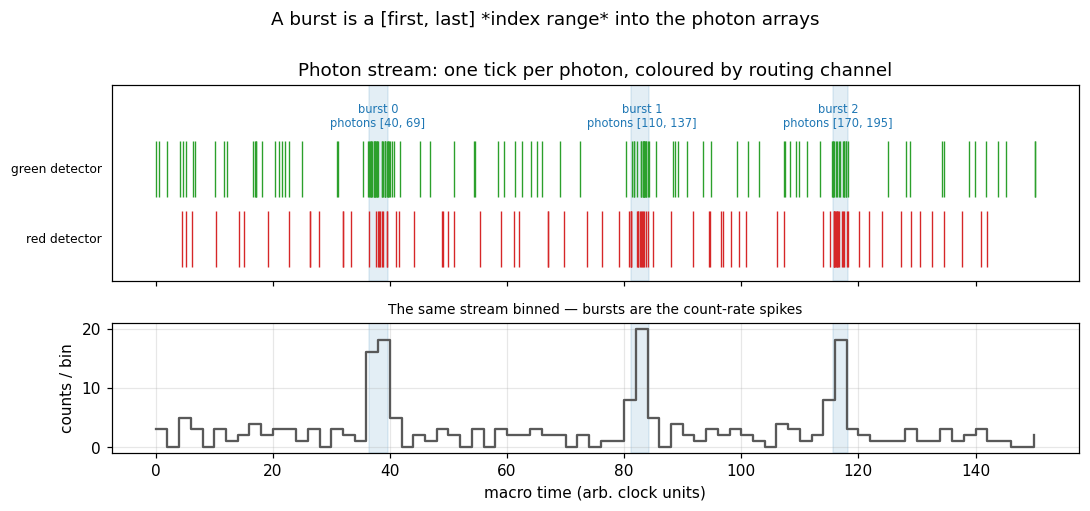
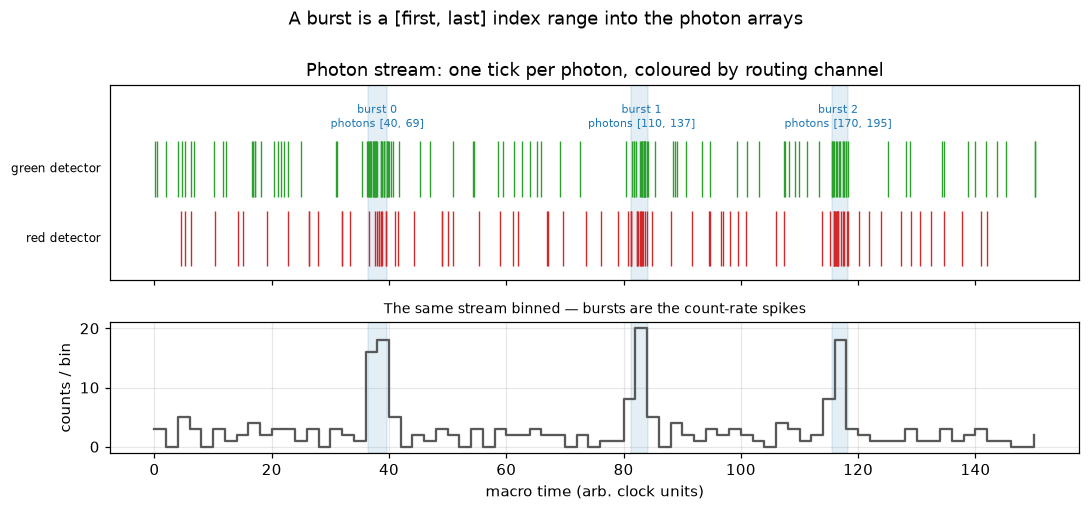
Docs review: guides 32-38 checked against the code
32: Decays tab (plot Per-state decay), ALEX Creator link, result caption.
33: tttrlib burst-feature engines named correctly; off-topic window-size
paragraph dropped; timestamps figure title no longer shows literal asterisks.
34: CSV snippet defines its table; FRET efficiency column listed.
35: Run writes into the search bi4_bur folder (or .pto); captions.
36: stale known-defect admonition removed (the table now carries
per-detector columns); simulated figure called simulated.
37: real LUT-tool controls (Preview channel, Add all channels to setup,
Apply to detector setup, Low-count threshold), reached via File > Setup >
Settings; csc lut-tools with --channel.
38: real control names (Browse..., van Steensel CCF tab, Min size (px),
Smoothing, Paint ROI/Paint gate, Gate regions); captions name the real test
image; retired Qt-host section and its obsolete screenshot removed.

diff --git a/docs/guides/make_figures.py b/docs/guides/make_figures.py
@@ -1218,7 +1218,7 @@ def fig_timestamps():
         a2.axvspan(macro[s], macro[e], color="#1f77b4", alpha=0.12, zorder=0)
     a2.set_xlabel("macro time (arb. clock units)"); a2.set_ylabel("counts / bin")
     a2.set_title("The same stream binned — bursts are the count-rate spikes", fontsize=9)
-    fig.suptitle("A burst is a [first, last] *index range* into the photon arrays", y=1.0)
+    fig.suptitle("A burst is a [first, last] index range into the photon arrays", y=1.0)
     save(fig, "timestamps_bursts.png")
 
 

diff --git a/docs/guides/38_colocalization.md b/docs/guides/38_colocalization.md
@@ -41,7 +41,7 @@ file (`ch0`, `ch1`, …).
 
 ### 2. Load an image
 
-Type a path into **Image** and press Enter, press **Browse** for the disk, or **Database** to load a dataset registered
+Type a path into **Image** and press Enter, press **Browse…** for the disk, or **Database** to load a dataset registered
 in the database (the database resolves it to a local file, wherever its object
 store keeps the data — local disk or an S3-compatible endpoint), and a file
 dropped on the window works too. Choosing a file loads and runs it. Photon streams are
@@ -80,13 +80,15 @@ pixels above both thresholds.
 :name: fig-coloc-workspace
 :width: 100%
 
-The colocalization tool on a simulated two-channel image (two Gaussian structures,
-the second one partly shifted): the settings and the channel pair on the left, the coefficients on the right.
+The colocalization tool on the two-detector confocal test image
+(`test/data/clsm/PQ_Olympus_MFIS.ht3`, green vs red, auto background): the
+settings and the channel pair on the left, the coefficients on the right.
 ```
 
 ### 6. Check registration, then significance
 
-Set **van Steensel shift (px)** to a dozen pixels and look at the CCF tab: the
+Set **van Steensel shift (px)** to a dozen pixels and look at the **van Steensel
+CCF** tab: the
 profile must peak at 0. A peak elsewhere is a registration offset — fix it before
 believing any coefficient.
 
@@ -109,8 +111,8 @@ leaves the horizontal profile peaking at zero.
 
 ### 8. Restrict to a region (optional)
 
-Open the **Region of interest** panel, set a **Brush (px)** size, and paint on the
-*Channel A* map. Everything — background, Costes thresholds, the null model, the
+Open the **Region of interest** panel, tick **Paint ROI**, set a **Brush (px)**
+size, and paint on the *Channel A* map (**Erase** paints the region away). Everything — background, Costes thresholds, the null model, the
 profiles and the coefficients — is then computed inside that region only, and the
 table reports its area fraction. **🧽 Clear ROI** goes back to the whole image.
 
@@ -124,7 +126,7 @@ how many objects each channel has, what fraction has a partner within the
 lands inside an object of the other channel, and the median nearest-neighbour
 distance — all reported in both directions.
 
-**Min size** drops noise-sized detections, **Smoothing** helps when shot noise
+**Min size (px)** drops noise-sized detections, **Smoothing (σ px)** helps when shot noise
 fragments a spot, and **Split touching objects** separates puncta that merge
 (over-segments irregular shapes, so leave it off for those).
 
@@ -137,15 +139,15 @@ and independent puncta looks like.
 :name: fig-coloc-objects
 :width: 65%
 
-Segmented objects of the simulated image: 1 = channel A only, 2 = channel B only,
-3 = both. Coincidence is read straight off the map.
+Segmented objects of a simulated punctate image (**Load example**): 1 = channel A
+only, 2 = channel B only, 3 = both. Coincidence is read straight off the map.
 ```
 
 ```{figure} figures/coloc_object_distances.png
 :name: fig-coloc-object-distances
 :width: 75%
 
-Nearest-neighbour distances in both directions for the simulated image.
+Nearest-neighbour distances in both directions for the simulated punctate image.
 ```
 
 ### 10. Gate a population in the scatter
@@ -159,9 +161,10 @@ table, while the *Colocalized pixels* map highlights them.
 :name: fig-coloc-scatter
 :width: 70%
 
-Joint intensity histogram of the simulated channels. A gate box is typed under *Scatter gate*,
-or added with **Add rectangle** in the *Analysis regions* list and dragged by its handles; the gated
-pixel population gets its own coefficients.
+Joint intensity histogram of the confocal test image (green vs red). A gate box
+is typed under *Scatter gate*, or added with **Add rectangle** in the *Gate regions*
+list and dragged by its handles; the gated pixel population gets its own
+coefficients.
 ```
 
 Type the bounds into the **Scatter gate** panel for an exactly reproducible gate,
@@ -170,7 +173,8 @@ or press **🧹 Clear gate** to go back to all thresholded pixels.
 A population is rarely a rectangle, though — a real one is a band along the
 diagonal, or a cloud off it. **Paint it instead**: brush directly on the
 histogram and the painted bins become the gate, exactly as drawn. Painting takes
-precedence over the rectangle while it lasts, and **🧹 Clear gate** resets both.
+precedence over the rectangle while it lasts (tick **Paint gate** under *Scatter
+gate*), and **🧹 Clear gate** resets both.
 Under the hood the paint is the same kind of region as a mask drawn on an image
 — only its axes are intensities rather than pixels
 ({ref}`concept-region-properties`) — so it can be combined with another region
@@ -236,14 +240,3 @@ what a defensible report contains.
 ## See also
 
 - Tool: **Colocalization** (`chisurf/plugins/microscopy/img_coloc/`).
-
-## Native window and image orientation
-
-The native tool declares an initial 1100×720 window, limited by the display and
-overridden by saved dimensions. Hover the Background, Scatter gate, Region,
-Objects and Significance folds for their method explanations. The intensity
-scatter shows the computed histogram with increasing channel intensities on
-its axes; flipped texture coordinates now render correctly in the Qt host
-without changing coefficients or histogram counts.
-
-![Computed colocalization intensity histogram](figures/w6g_coloc_scatter.png)

diff --git a/docs/guides/37_tttr_microtime_lut.md b/docs/guides/37_tttr_microtime_lut.md
@@ -32,22 +32,24 @@ and micro-time shift. **Assign LUT…** assigns a LUT file to the selected row;
 **Configure LUTs…** opens the LUT tools window of the editor (compute from the
 read calibration decay with a linear region or automatically, assign, export, remove
 for one channel); **Adjust shifts…** aligns the channels on the decay. The standalone
-**LUT Tools** plugin below does the same on its own, with the **① Compute LUT** tab
-as the tool you use; tab ② (settings.tttr.json) is optional file interchange.
+**TTTR LUT Tools** window (*File → Setup → Settings*, entry **TTTR LUT Tools**) does the same on its own: its
+**Compute LUT** mode is the tool you use; **settings.tttr.json (optional)** is
+file interchange only.
 
 Load one or more TTTR files of a **uniform-illumination** (uncorrelated-light /
-scatter) measurement — light that *should* produce a flat TAC histogram. Because
-TAC differential non-linearity is **per routing channel**, pick a **Routing
-channel**, drag the orange region to mark the flat **linear plateau** (or
-auto-detect), then press the bold **➡ Add to Detector setup**. Repeat for each
-channel and close the window — that's the whole workflow. Saving a LUT file is
-optional.
+scatter) measurement — light that *should* produce a flat TAC histogram. TAC
+differential non-linearity is **per routing channel**: pick a **Preview channel**,
+drag the orange region to mark the flat **linear plateau** (or press
+**Auto-detect region**), then press **Add all channels to setup**, which computes
+one LUT per routing channel of the file and assigns them to the detector setup
+(**Apply to detector setup** sends them to the setup that opened the window).
+Saving a LUT file (**Save LUT file…**) is optional.
 
 ```{figure} figures/lut_tools_workspace.png
 :name: fig-lut-tools-workspace
 :width: 90%
 
-① Compute LUT — per-channel: routing-channel selector, draggable linear region on the raw TAC histogram, corrected preview below.
+**Compute LUT** on a BH SPC-130 flat-light file: preview channel 0, the draggable linear region (orange) on the raw TAC histogram, and the corrected, equal-width preview below.
 ```
 
 ### It lands in the detector setup
@@ -70,16 +72,16 @@ identical.
 ### Headless (CLI / API)
 
 ```bash
-# ① compute a LUT from a flat-light file
-chisurf lut-tools compute uniform.spc -o green.npy --routine SPC-130
-# ② build a settings bundle assigning it to channel 0 (+ a 3-bin shift)
-chisurf lut-tools settings --lut 0=green.npy --shift 0=3 -o settings.tttr.json
+# compute the LUT of routing channel 0 from a flat-light file
+csc lut-tools compute uniform.spc --channel 0 -o green.npy --routine SPC-130
+# optional: a settings bundle assigning it to channel 0 (+ a 3-bin shift)
+csc lut-tools settings --lut 0=green.npy --shift 0=3 -o settings.tttr.json
 ```
 
 ```python
 from chisurf.plugins.tttr.tttr_lut_tools import api
 
-tbl  = api.compute.compute_lut_from_files(["uniform.spc"], routine="SPC-130")
+tbl  = api.compute.compute_lut_from_files(["uniform.spc"], routine="SPC-130", channel=0)
 luts = {0: tbl["NTAC_fract"]}
 # corrected micro-time histogram of channel 0
 counts, axis = api.settings.corrected_histogram("data.spc", 0, luts, routine="SPC-130")
@@ -91,7 +93,10 @@ A uniform-illumination measurement is the reference because it *should* be flat:
 any structure in its TAC histogram is instrument DNL, not signal. The Felekyan
 et al. (Rev. Sci. Instrum. 2005) construction reads the local counts as *bin
 widths* — over-counted channels are "wide", under-counted ones "narrow" — and
-integrates them into a cumulative table `NTAC_fract`. That table maps each raw
+integrates them into a cumulative table `NTAC_fract`. Bins below the
+**Low-count threshold** (under **Advanced**; compared after division by the
+region mean when **Normalize** is on) are masked from the construction, so the
+two settings change the LUT together. That table maps each raw
 channel onto a corrected, equal-width axis; applying it (with stochastic
 dithering, so no binning artifacts) flattens the histogram.
 
@@ -99,7 +104,7 @@ dithering, so no binning artifacts) flattens the histogram.
 :name: fig-lut
 :width: 90%
 
-DNL and its LUT correction.
+Simulated flat light: DNL and its LUT correction.
 ```
 
 **Left** — the same flat-light photons before (red, wavy from DNL) and after
@@ -124,10 +129,3 @@ burst and PDA analyses.
 - Reading seam: `chisurf/core/fio/staging.py::open_tttr`.
 - Channel definition: `chisurf/gui/widgets/wizard/tttr_channeldefinition/`.
 - Felekyan et al., *Rev. Sci. Instrum.* 76.8 (2005) 083104.
-
-The native LUT tool starts at 1100×720; a saved custom size takes precedence.
-**Normalize** divides histogram counts by the selected region mean before
-comparison with the low-count threshold. Bins below that normalized threshold
-are masked from LUT construction, so changing it can change the LUT mapping
-and corrected preview. Choose normalization and threshold together; it is part
-of correction construction.

diff --git a/docs/guides/34_exporting_burst_data.md b/docs/guides/34_exporting_burst_data.md
@@ -63,7 +63,9 @@ export is designed to open directly in **ndxplorer**:
 ```python
 # burst table -> CSV (the burst table is a column store, not a pandas frame)
 from chisurf.core.datastore import write_csv_table
-write_csv_table("bursts.csv", bursts.table, delimiter=",")
+from chisurf.core.fluorescence.burst.photons import load_bur_dataframe
+bursts = load_bur_dataframe(["burstwise_All 0.1000#15/bi4_bur/m000.bur"])
+write_csv_table("bursts.csv", bursts, delimiter=",")
 
 # per-burst H2MM export: a per-photon HDF5 + a per-burst CSV with the ndX
 # FRET-line columns ("Mean Microtime (green)", "Proximity ratio", ...), from the
@@ -75,7 +77,7 @@ tables = export.build_tables(data, meta, path, fret, base_time_s=1e-6,
 export.write_hdf5(tables.photons, "h2mm/h2mm_photons.h5")
 export.write_csv(tables.bursts, "h2mm/h2mm_bursts.csv")
 
-# per-photon data of the selected bursts
+# per-photon data of the selected bursts ([first, last] index pairs, guide 33)
 import numpy as np
 sel = np.concatenate([np.arange(s, e + 1) for s, e in burst_bounds])
 photons = dict(macro=macro[sel], micro=micro[sel], channel=route[sel])
@@ -94,7 +96,7 @@ them up without any mapping — in particular the time axis is named
 | table | one row per | columns |
 |---|---|---|
 | per-photon (`h2mm_photons.h5`) | photon | `Mean Macro Time (s)`, `Macro Time`, `Micro Time`, `Channel`, `Stream`, `State`, `Burst` |
-| per-burst (`h2mm_bursts.csv`) | burst | `Burst`, `Number of Photons`, `Mean Macro Time (s)`, `Mean Microtime (<stream>)`, `Proximity ratio`, `Dominant State`, `Number of Transitions`, `Mean FRET E` |
+| per-burst (`h2mm_bursts.csv`) | burst | `Burst`, `Number of Photons`, `Mean Macro Time (s)`, `Mean Microtime (<stream>)`, `FRET efficiency`, `Proximity ratio`, `Dominant State`, `Number of Transitions`, `Mean FRET E` |
 
 `Mean Microtime (…)` is emitted once per photon stream and is in nanoseconds when
 the micro-time resolution is known — otherwise `NaN`. Colouring the per-photon

diff --git a/docs/guides/32_nsalex_lifetime.md b/docs/guides/32_nsalex_lifetime.md
@@ -62,10 +62,10 @@ The per-burst donor lifetime proper is fitted by maximum likelihood in
 **Burst MLE** ([tutorial 21](21_lifetime_from_bursts.md), step 6 of Burst
 Analysis); the E–τ plot with the static-FRET line is drawn by the **Accurate
 FRET** tool ([accurate FRET](41_accurate_fret.md)) and by ndX. PIE/ALEX streams
-are prepared by the `ptu_alex_creator` and micro-time-gating tools.
+are prepared by the **ALEX Creator** ([guide 100](100_alex_creator.md)) and the micro-time-gating tools.
 
-**H2MM** adds the lifetime per *state* rather than per burst: its *Per-state
-decay* dock histograms the micro times of the photons each state was assigned,
+**H2MM** adds the lifetime per *state* rather than per burst: its *Decays*
+tab (plot *Per-state decay*) histograms the micro times of the photons each state was assigned,
 per detection colour, and the **Nanotime divisors** setting splits every stream
 into micro-time bins so that states with the same apparent E but different
 lifetimes can be told apart.
@@ -84,14 +84,15 @@ The colour and state boxes above the plot choose the curves; the line style is t
 
 ## Result
 
-An E–τ plot: two static FRET populations on the $\tau_0(1-E)$ line and a dynamic
+An E–τ plot: static FRET populations on the $\tau_0(1-E)$ line and a dynamic
 population displaced above it.
 
 ```{figure} figures/nsalex_etau.png
 :name: fig-nsalex-etau
 :width: 90%
 
-ns-ALEX FRET–lifetime plot.
+Simulated E–τ plot: two static populations (*blue*) on the static FRET line
+$\tau_D = \tau_0(1-E)$ and a dynamic one (*red*) displaced above it.
 ```
 
 ## See also

diff --git a/docs/guides/36_multispot.md b/docs/guides/36_multispot.md
@@ -50,25 +50,21 @@ afterwards. No multispot fixture ships with ChiSurf, so this page has no
 screenshot of its own; the per-spot step is the single-spot one shown in
 [tutorial 27](27_alex_smfret_workflow.md).
 
-:::{admonition} Known defects
-:class: warning
-The burst table `select_bursts` returns carries no per-detector photon counts
-(see [tutorial 27](27_alex_smfret_workflow.md)), so a per-spot proximity-ratio
-histogram cannot be read off `bursts.table` yet; the photon-level analyses
-(`bva`, `two_cde`, `h2mm`) do see the spot's channels.
-:::
+The burst table `select_bursts` returns carries the setup's per-detector
+columns (`Number of Photons (<name>)` …), so a per-spot proximity-ratio histogram
+reads straight off `bursts.table`.
 
 ## Result
 
-Per-spot FRET-efficiency histograms of an 8-spot measurement; the population
-positions (red line = high-FRET median) agree across spots, validating the
-parallel acquisition.
+Per-spot FRET-efficiency histograms of a simulated 8-spot measurement; the
+population positions (red line = high-FRET median) agree across spots, which is
+the check a real multispot run has to pass.
 
 ```{figure} figures/multispot.png
 :name: fig-multispot
 :width: 90%
 
-8-spot multispot smFRET.
+Simulated 8-spot smFRET: per-spot E histograms, high-FRET median in red.
 ```
 
 ## See also

diff --git a/docs/guides/33_timestamps_and_bursts.md b/docs/guides/33_timestamps_and_bursts.md
@@ -73,7 +73,7 @@ photon counts per detector).
 
 Bursts can be sliced into time bins (the basis of [BVA](08_burst_variance_analysis.md)),
 fused if separated by short gaps, or filtered by size/duration/background. The
-`burst_selection` plugin and the `BurstFeature` engines (`tttrlib.BVA`,
+`burst_selection` plugin and tttrlib's burst-feature engines (`tttrlib.BVA`,
 `tttrlib.TwoCDE`) all consume exactly this index-range representation.
 
 ## Result
@@ -104,8 +104,3 @@ table — set **Min photons** to 19 and **▶ Run** again to list them (161 burs
 - Binning the same stream: [binned photon traces](22_binned_photon_traces.md).
 - Getting the slices back out: [exporting burst data](34_exporting_burst_data.md).
 - Tool: the **TTTR Toolbox** (`chisurf/plugins/tttr/tttr_toolbox/`) and **Burst Analysis** (`chisurf/plugins/burst/burst_analysis/`).
-
-Native Burst Selection starts at 1100×720, with saved custom geometry taking
-precedence. Selection masks and scientific outputs are retained when resizing;
-wide detector tables expose their last columns through the existing horizontal
-scrollbar.

diff --git a/docs/guides/35_combining_repeats.md b/docs/guides/35_combining_repeats.md
@@ -28,8 +28,8 @@ quality control. Each file should be background-corrected on its **own** rate
 
 **Burst Selection** (and step 2 of **Burst Analysis**) takes any number of
 files: drop a folder on the window or use **Add files** / **Add folder**, and
-**Run** searches every file with the same settings, writing one `.bur` per file
-into one output folder. Each burst row keeps its `First File`, so per-file
+**▶ Run** searches every file with the same settings, writing one `.bur` per file
+into the search's `bi4_bur/` folder beside the files (or into each file's `.pto`). Each burst row keeps its `First File`, so per-file
 provenance survives pooling. Background is a separate step
 ([background rates](15_background_rates.md)) and is estimated per file there.
 
@@ -81,7 +81,7 @@ populations.
 :name: fig-combining-repeats
 :width: 90%
 
-Combining technical repeats.
+Three simulated technical repeats (outlines) and their pooled histogram (*grey*).
 ```
 
 ## See also
